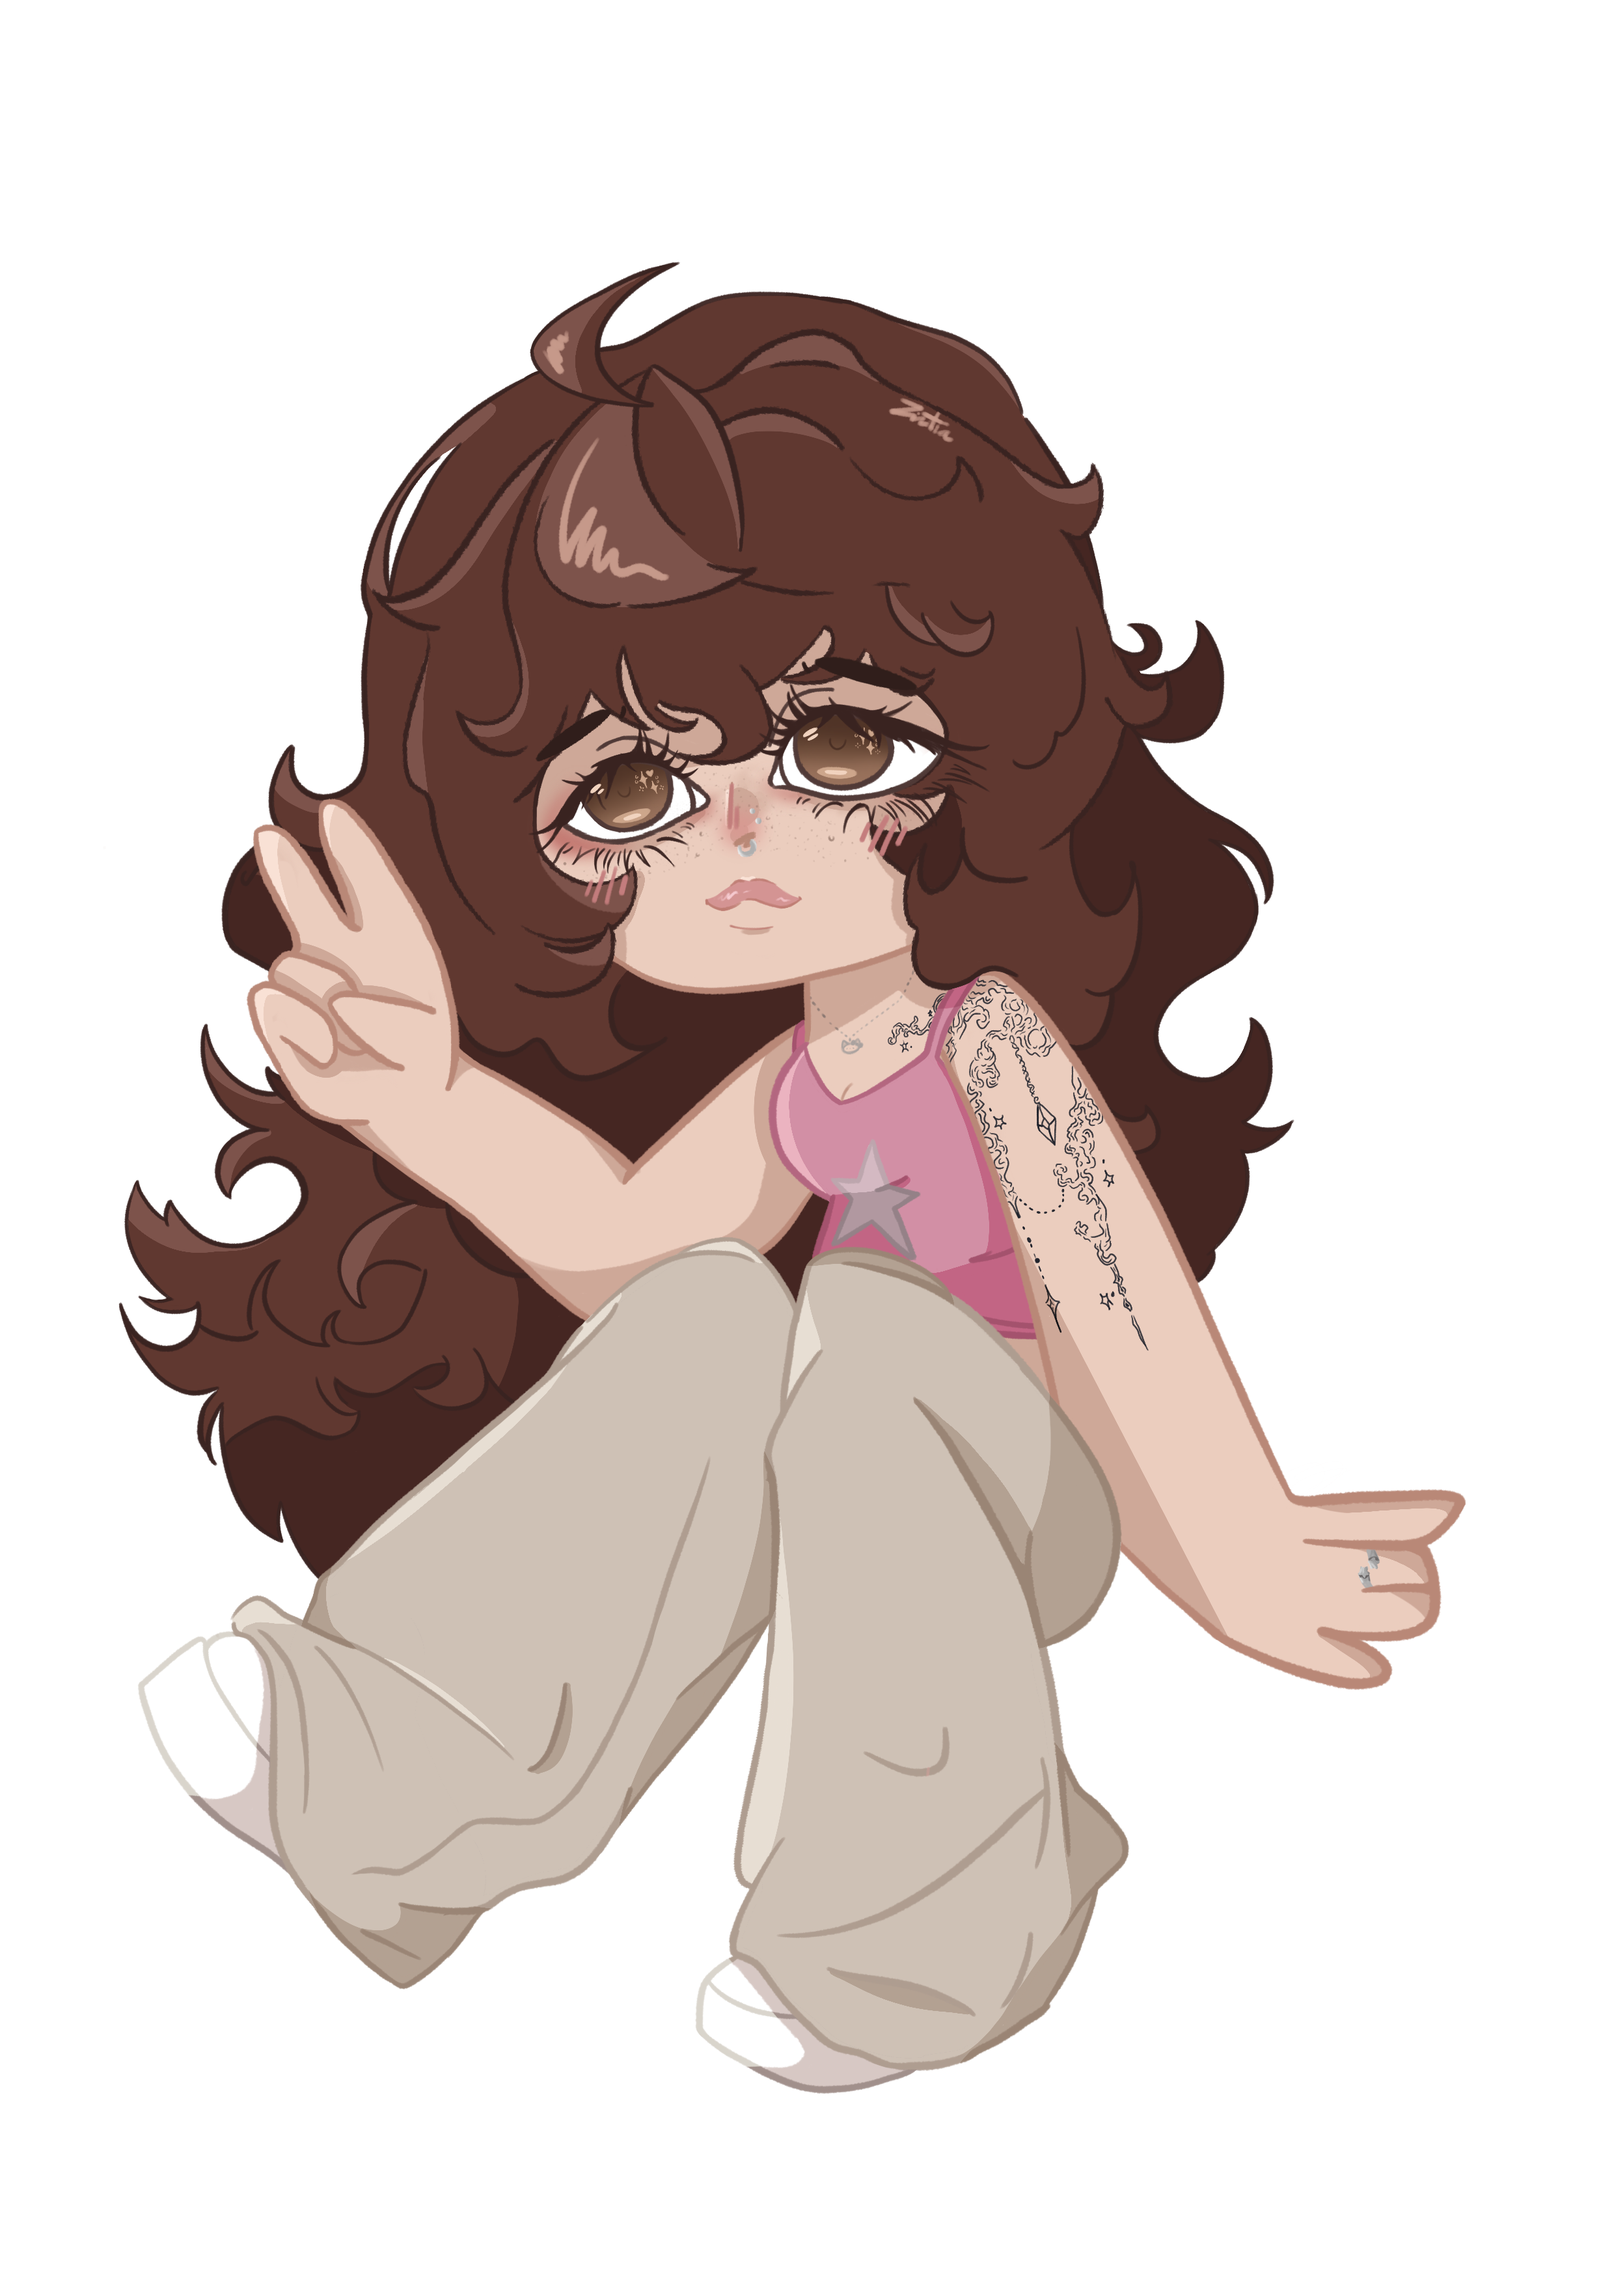
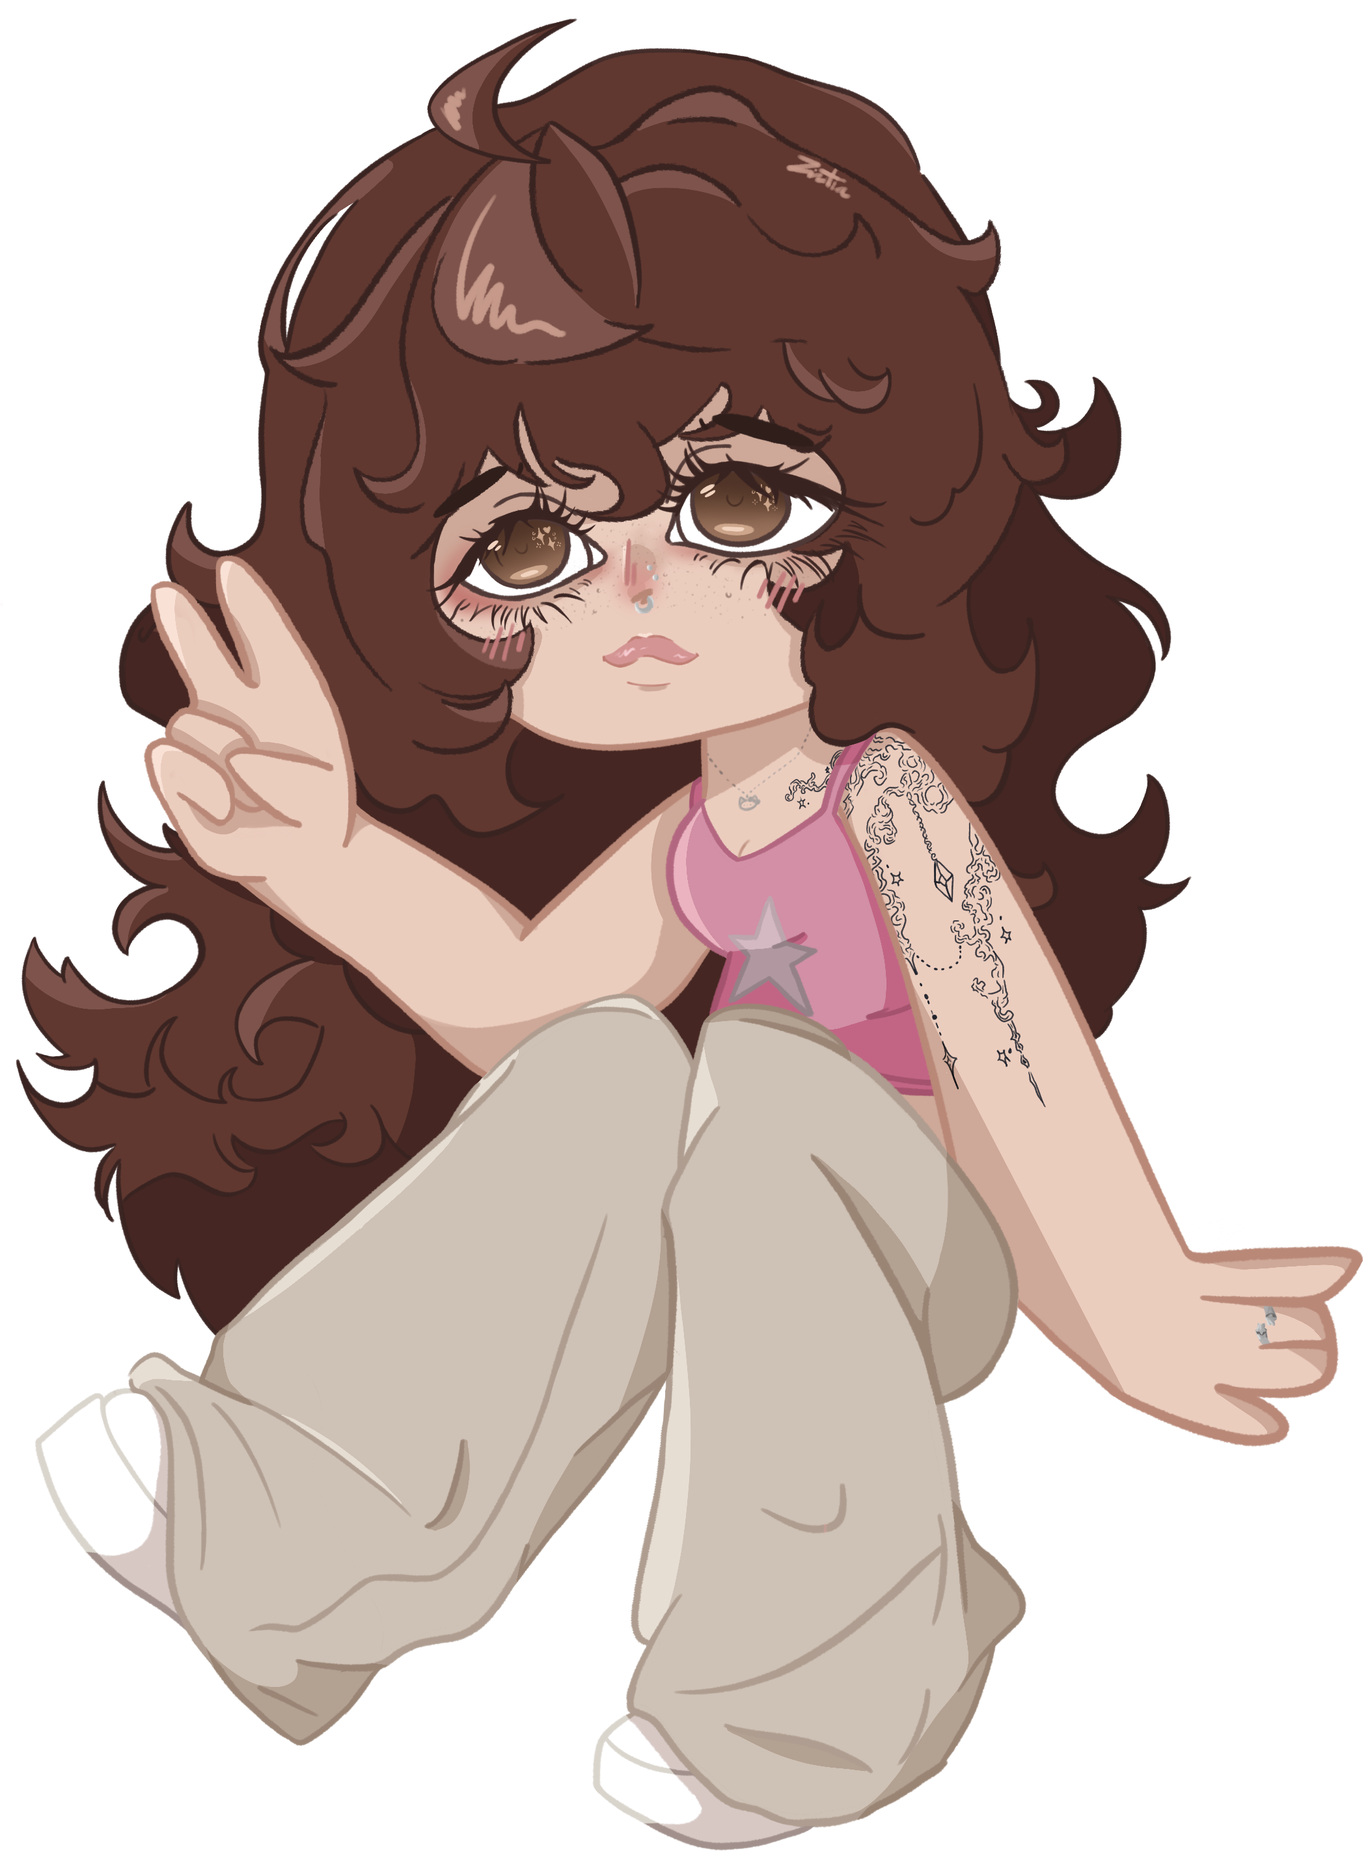
fix: update image file and enhance layout responsiveness in index.html and style.css

diff --git a/style.css b/style.css
@@ -17,6 +17,7 @@ main {
   height: 100vh;
   position: relative;
   overflow: hidden;
+  padding: 20px;
 }
 
 #muñeca {
@@ -24,53 +25,34 @@ main {
   top: 50%;
   left: 50%;
   translate: -50% -50%;
-  width: 70vw;
+  height: 70vh;
   aspect-ratio: 2/3;
   z-index: -1;
 }
 
-#portada header {
-  display: flex;
-  justify-content: space-between;
-  padding: 10px;
-}
-
-#portada header a {
-  text-decoration: none;
-  font-size: 5rem;
-}
-
 #textoPortfolio {
   position: absolute;
-  bottom: 100px;
-  left: 100px;
-  width: 600px;
+  bottom: 10%;
+  left: 50%;
+  translate: -50%;
+  width: 70vw;
+}
+
+header {
+  display: flex;
+  justify-content: space-between;
+}
+
+header a {
+  text-decoration: none;
+  font-size: clamp(1.2rem, 4vw, 2.5rem);
 }
 
 #enlaceConoceme {
-  display: flex;
-  flex-direction: column;
-  position: absolute;
-  right: 60px;
-  bottom: 0;
-  font-size: 3rem;
-  text-decoration: none;
+  display: none;
 }
 
-#rectangulo {
-  width: 400px;
-  height: 30px;
-  background-color: #eb0e87;
-}
-
-#flechaAbajo {
-  width: 200px;
-  align-self: end;
-  margin-top: 100px;
-}
-
-
-#sobreMi{
+#sobreMi {
   display: flex;
   align-items: center;
   flex-direction: column;
@@ -78,7 +60,7 @@ main {
   gap: 20px;
 }
 
-.contenedorSobreMi{
+.contenedorSobreMi {
   display: flex;
   justify-content: center;
   align-items: center;
@@ -86,34 +68,35 @@ main {
   gap: 20px;
 }
 
-.contenedorSobreMi img, .contenedorSobreMi div{
+.contenedorSobreMi img,
+.contenedorSobreMi div {
   width: 80%;
 }
 
-.parrafoSobreMi{
+.parrafoSobreMi {
   display: flex;
   flex-direction: column;
   gap: 20px;
 }
 
-.parrafoSobreMi p{
+.parrafoSobreMi p {
   font-family: "Inter";
 }
 
-.skills{
+.skills {
   display: flex;
   gap: 20px;
   flex-wrap: wrap;
 }
 
-.contenedorSkills{
+.contenedorSkills {
   text-align: center;
   display: flex;
   gap: 10px;
   flex-direction: column;
 }
 
-.contenedorSkills div{
+.contenedorSkills div {
   display: flex;
   justify-content: center;
   align-items: center;
@@ -121,7 +104,7 @@ main {
   flex-wrap: wrap;
 }
 
-.contenedorSkills div span{
+.contenedorSkills div span {
   background-color: #eb0e87;
   color: white;
   padding: 8px;
@@ -130,7 +113,7 @@ main {
   border-radius: 10px;
 }
 
-#proyectos{
+#proyectos {
   background-color: #eb0e87;
   display: flex;
   flex-direction: column;
@@ -138,11 +121,11 @@ main {
   gap: 20px;
   padding-top: 30px;
 }
-#proyectos h1{
+#proyectos h1 {
   color: white;
 }
 
-.contenedoresProyectos{
+.contenedoresProyectos {
   background-color: white;
   display: flex;
   flex-direction: column;
@@ -151,54 +134,83 @@ main {
   gap: 20px;
 }
 
-.contenedoresProyectos div{
+.contenedoresProyectos div {
   display: flex;
   flex-direction: column;
   gap: 10px;
 }
 
-.contenedoresProyectos div p{
+.contenedoresProyectos div p {
   font-family: "Inter";
 }
 
-.contenedoresProyectos img{
+.contenedoresProyectos img {
   width: 100%;
   aspect-ratio: 2 / 1;
-  object-fit:cover;
+  object-fit: cover;
 }
 
-@media (min-width: 720px){
-  h1{
+@media (min-width: 720px) {
+  h1 {
     font-size: 4rem;
   }
 
-  #sobreMi{
+  #sobreMi {
     height: 100vh;
     justify-content: center;
   }
 
-  .contenedorSobreMi{
+  .contenedorSobreMi {
     flex-direction: row;
     width: 70vw;
   }
-  .contenedorSobreMi img{
+  .contenedorSobreMi img {
     width: 25vw;
   }
-  .parrafoSobreMi p{
+  .parrafoSobreMi p {
     font-size: 0.8rem;
   }
 
-  .contenedorSkills div{
+  .contenedorSkills div {
     max-width: 30vw;
+  }
+
+  #textoPortfolio {
+    position: absolute;
+    left: 35%;
+    translate: -50%;
+    width: 450px;
+  }
+  #muñeca {
+    height: 130vh;
+    aspect-ratio: 2/3;
+    z-index: -1;
+  }
+
+  #enlaceConoceme {
+    display: flex;
+    flex-direction: column;
+    position: absolute;
+    bottom: 5%;
+    right: 5%;
+    text-decoration: none;
+  }
+  #enlaceConoceme h2 {
+    font-size: 3.5rem;
+  }
+
+  #rectangulo {
+    width: 300px;
+    height: 30px;
+    background-color: #eb0e87;
   }
 }
 
-@media (min-width: 1200px){
-  .parrafoSobreMi p{
+@media (min-width: 1200px) {
+  .parrafoSobreMi p {
     font-size: 1.2rem;
   }
-  .contenedorSkills div span{
-  padding: 12px;
-  
+  .contenedorSkills div span {
+    padding: 12px;
   }
 }

diff --git a/index.html b/index.html
@@ -36,28 +36,28 @@
         <div class="contenedorSobreMi">
           <img src="./fotoZintia.png" alt="foto Zintia" />
           <div class="parrafoSobreMi">
-          <p>
-            Para mí, el diseño es mucho más que crear algo bonito: es una forma
-            de expresar ideas, emociones y mensajes a través de lo visual.
-          </p>
-          <p>
-            Me gusta crear diseños que tengan un propósito, que comuniquen y que
-            sean capaces de conectar con quien los observa. Mi forma de diseñar
-            nace de la curiosidad, la sensibilidad y una manera muy personal de
-            entender el mundo.
-          </p>
-          <p>
-            Desde que descubrí el diseño gráfico, he explorado diferentes
-            técnicas y formas de expresión, siempre buscando nuevas maneras de
-            transformar una idea en algo visual, cercano y con significado.
-          </p>
-          <p>
-            Ahora quiero seguir creciendo como diseñadora, experimentar,
-            aprender y trabajar en proyectos que me permitan comunicar, conectar
-            y convertir ideas en algo que realmente llegue a las personas.
-          </p>
+            <p>
+              Para mí, el diseño es mucho más que crear algo bonito: es una forma
+              de expresar ideas, emociones y mensajes a través de lo visual.
+            </p>
+            <p>
+              Me gusta crear diseños que tengan un propósito, que comuniquen y que
+              sean capaces de conectar con quien los observa. Mi forma de diseñar
+              nace de la curiosidad, la sensibilidad y una manera muy personal de
+              entender el mundo.
+            </p>
+            <p>
+              Desde que descubrí el diseño gráfico, he explorado diferentes
+              técnicas y formas de expresión, siempre buscando nuevas maneras de
+              transformar una idea en algo visual, cercano y con significado.
+            </p>
+            <p>
+              Ahora quiero seguir creciendo como diseñadora, experimentar,
+              aprender y trabajar en proyectos que me permitan comunicar, conectar
+              y convertir ideas en algo que realmente llegue a las personas.
+            </p>
           </div>
-          </div>
+        </div>
         <div class="skills">
           <article class="contenedorSkills">
             <h2>Programas</h3>
